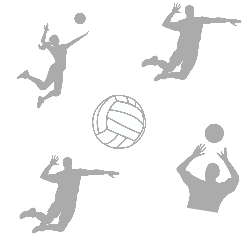
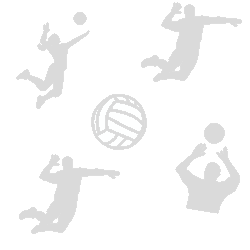
css fixes

diff --git a/css/index_stylesheet.css b/css/index_stylesheet.css
@@ -1,105 +1,96 @@
-
-body{
-}
-
-.logo-container{
-    height: 20vh;
-}
-
-.logo{
-    margin-top: 1%;
-    height: 90%;
-}
-
-.container{
-    padding: 0;
-}
-
-.container-custom{
-    box-shadow: 1px 1px 5px 5px lightgrey;
-    height: auto;
-    min-height: 80vh;
-}
-
-.content{
-    padding: 2%;
-}
-
-.opening-hours{
-    background: darkgray;
-    height: 40vh;
-}
-
-.gallery-picture{
-    width: 25vw;
+.d-block{
+    height: 27.5vw;
     margin: auto;
-    cursor: pointer;
-}
-.modal-body{
-    display: flex;
+    opacity: 1.0 !important;
 }
 
-.img-row {
-    display: flex;
-    flex-wrap: wrap;
+.carousel{
+    background: rgb(0,0, 0, 0.5) !important;
 }
 
-/* Create four equal columns that sits next to each other */
-.img-column {
-    flex: 50%;
-    max-width: 50%;
-    display: flex;
-    flex-direction: column;
-}
-
-.img-column img {
-    margin-top: 8px;
-    /*margin-left: 14px;*/
-    vertical-align: top;
-    width: 90%;
-}
-
-/* Responsive layout - makes a two column-layout instead of four columns */
-@media screen and (max-width: 800px) {
-    .img-column {
-        margin-left: 3%;
-        flex: 45%;
-        max-width: 45%;
-    }
-
-    .member{
-        flex: 50%;
-        max-width: 50%;
-    }
-
-}
-
-/* Responsive layout - makes the two columns stack on top of each other instead of next to each other */
-@media screen and (max-width: 600px) {
-    .img-column {
-        margin-left: 14px;
-        flex: 100%;
-        max-width: 100%;
-    }
-
-    .img-column img {
-        margin-left: 3%;
-    }
-
-}
-
-@media screen and (max-width: 450px) {{
-}
-    .member{
-        flex: 100%;
-        max-width: 100%;
-    }
-}
-
-#modalPicture{
-    width: 100%;
-}
-
-.card{
+.animation {
+    height: 125px;
     margin-bottom: 5%;
+    position: relative;
+    animation: example 2s infinite;
+}
+
+@keyframes example {
+    from {
+        transform:rotate(0deg);
+    }
+    to {
+        transform:rotate(360deg);
+    }
+}
+
+
+
+@media screen and (max-width: 768px) {
+
+    #animationVB{
+        display: none;
+    }
+
+    .d-block{
+        height: 50vw ;
+    }
+}
+
+@media (min-width: 768px) {
+
+    .animation {
+        animation: example 1.5s infinite;
+    }
+
+    @keyframes example {
+        0%,
+        100% {
+            left: -14%;
+        }
+        50% {
+            left: 44%;
+            transform:rotate(180deg);
+        }
+    }
+
+}
+
+@media (min-width: 992px) {
+
+    .animation {
+        animation: example 2s infinite;
+    }
+
+    @keyframes example {
+        0%,
+        100% {
+            left: -10%;
+        }
+        50% {
+            left: 57.5%;
+            transform:rotate(360deg);
+        }
+    }
+}
+
+@media (max-width: 1300px) {
+    .animation {
+        animation: example 2.5s infinite;
+    }
+
+    .d-block{
+        height: 40vw;
+    }
+
+    @keyframes example {
+        0%,
+        100% {
+            left: -10%;
+        }
+        50% {
+            left: 65%;
+            transform:rotate(720deg);
+        }
+    }
 }

diff --git a/css/Header.css b/css/Header.css
@@ -4,7 +4,7 @@ body {
 }
 
 .logo-container{
-    height: 20vh;
+    height: 15vh;
 }
 
 .logo{
@@ -19,7 +19,7 @@ body {
 .container-custom{
     box-shadow: 1px 1px 5px 5px lightgrey;
     height: auto;
-    min-height: 80vh;
+    min-height: 85vh;
     background: white;
 }
 
@@ -126,8 +126,4 @@ body {
 
 .card-img-top{
     min-height: 35vh;
-}
-
-p.card-text {
-    min-height: 6vh;
 }

diff --git a/css/import.css b/css/import.css
@@ -2,4 +2,5 @@
 @import url("staevneplan.css");
 @import url("editBestyrelse.css");
 @import url("editgalleri.css");
+@import url("index_stylesheet.css");
 @import url("https://cdn.datatables.net/1.11.1/css/jquery.dataTables.min.css");

diff --git a/index.php b/index.php
@@ -12,96 +12,6 @@ $replace = '';
 $content['content'] = str_replace($order, $replace, $content['content']);
 ;?>
 
-<style>
-    .d-block{
-        height: 50vh !important;
-        margin: auto;
-    }
-
-    .carousel{
-        background: black !important;
-    }
-
-    .animation {
-        height: 125px;
-        margin-bottom: 5%;
-        position: relative;
-        animation: example 2s infinite;
-    }
-
-    @keyframes example {
-        from {
-            transform:rotate(0deg);
-        }
-        to {
-            transform:rotate(360deg);
-        }
-    }
-
-
-
-    @media screen and (max-width: 768px) {
-
-        #animationVB{
-            display: none;
-        }
-    }
-
-    @media (min-width: 768px) {
-
-        .animation {
-            animation: example 1.5s infinite;
-        }
-
-        @keyframes example {
-            0%,
-            100% {
-                left: -14%;
-            }
-            50% {
-                left: 44%;
-                transform:rotate(180deg);
-            }
-        }
-    }
-
-    @media (min-width: 992px) {
-
-        .animation {
-            animation: example 2s infinite;
-        }
-
-        @keyframes example {
-            0%,
-            100% {
-                left: -10%;
-            }
-            50% {
-                left: 57.5%;
-                transform:rotate(360deg);
-            }
-        }
-    }
-
-    @media (min-width: 1200px) {
-        .animation {
-            animation: example 2.5s infinite;
-        }
-
-        @keyframes example {
-            0%,
-            100% {
-                left: -10%;
-            }
-            50% {
-                left: 65%;
-                transform:rotate(720deg);
-            }
-        }
-    }
-
-</style>
-
 <div style="padding: 1%">
     <div id="carouselExampleControls" class="carousel slide" data-ride="carousel">
         <div class="carousel-inner">
@@ -129,11 +39,12 @@ $content['content'] = str_replace($order, $replace, $content['content']);
             <span class="sr-only">Next</span>
         </a>
     </div>
-    <div id="animationVB" style="margin-top: 2%">
-        <img src="billeder/volleyballhand.png" style="height: 200px">
-        <img src="billeder/volleyball.png" class="animation" style="z-index: 5">
-        <img src="billeder/volleyballhand.png" style="float: right;  height: 200px; transform: scaleX(-1); z-index: -1">
-    </div>
+
+<!--    <div id="animationVB" style="margin-top: 2%">-->
+<!--        <img src="billeder/volleyballhand.png" style="height: 200px">-->
+<!--        <img src="billeder/volleyball.png" class="animation" style="z-index: 5">-->
+<!--        <img src="billeder/volleyballhand.png" style="float: right;  height: 200px; transform: scaleX(-1); z-index: -1">-->
+<!--    </div>-->
 
     <?php echo stripslashes($content['content']); ?>
 </div>

diff --git a/adminpanel/editStaevneplan.php b/adminpanel/editStaevneplan.php
@@ -6,7 +6,7 @@ include "../BL/dbConnections/dbConnection.php";
 global $conn;
 ?>
 
-<div class="table-responsive-sm">
+<div class="table-responsive">
      <table class="table table-striped table-responsive-sm" id="ConventionTable">
         <thead class="thead-dark" >
          <tr>

diff --git a/staevneplan.php b/staevneplan.php
@@ -109,7 +109,8 @@ if ($conn) {
             "dom": 'rtip',
             language: {
                 url: '//cdn.datatables.net/plug-ins/1.11.1/i18n/da.json'
-            }
+            },
+            "order": [[ 1, "asc" ]]
         });
     } );
 </script>

diff --git a/adminpanel/index.php b/adminpanel/index.php
@@ -1,6 +1,12 @@
 <?php include "../templates/adminHeader.php"; ?>
 
 
+<style>
+    p.card-text {
+        min-height: 6vh;
+    }
+</style>
+
 <div class="btn-create">
     <div class="row">
         <div class="col-md-4">
